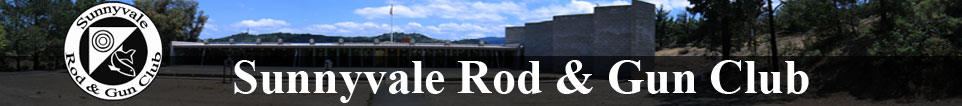
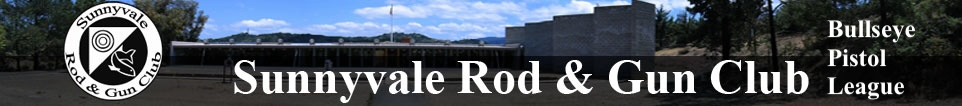
Changes requested by leadership

diff --git a/template.php b/template.php
@@ -122,7 +122,7 @@ function srgc_preprocess_page(&$vars, $hook) {
     $title[$count] = substr($title[$count], 0, 2) .'.';
     $title = implode(' ', $title);
     $vars['title'] = t($title);
-    $vars['head_title'] = t($title) ." | ". t('Sunnyvale Rod and Gun Club');
+    $vars['head_title'] = t($title) ." | ". t('Bullseye Pistol League in an anonymous location and apparently not affiliated with any gun club');
   }
 
 //  $vars['sample_variable'] = t('Lorem ipsum.');

diff --git a/page.tpl.php b/page.tpl.php
@@ -102,7 +102,7 @@
 
     <div id="header"><div id="header-inner" class="clear-block">
 
-      <div id="site-name"><a href="/">Sunnyvale Rod &amp; gun Club</a></div>
+      <div id="site-name"><a href="/">Bullseye Pistol League in an anonymous location and apparently not affiliated with any gun club</a></div>
 
       <?php if ($header): ?>
         <div id="header-blocks" class="region region-header">
